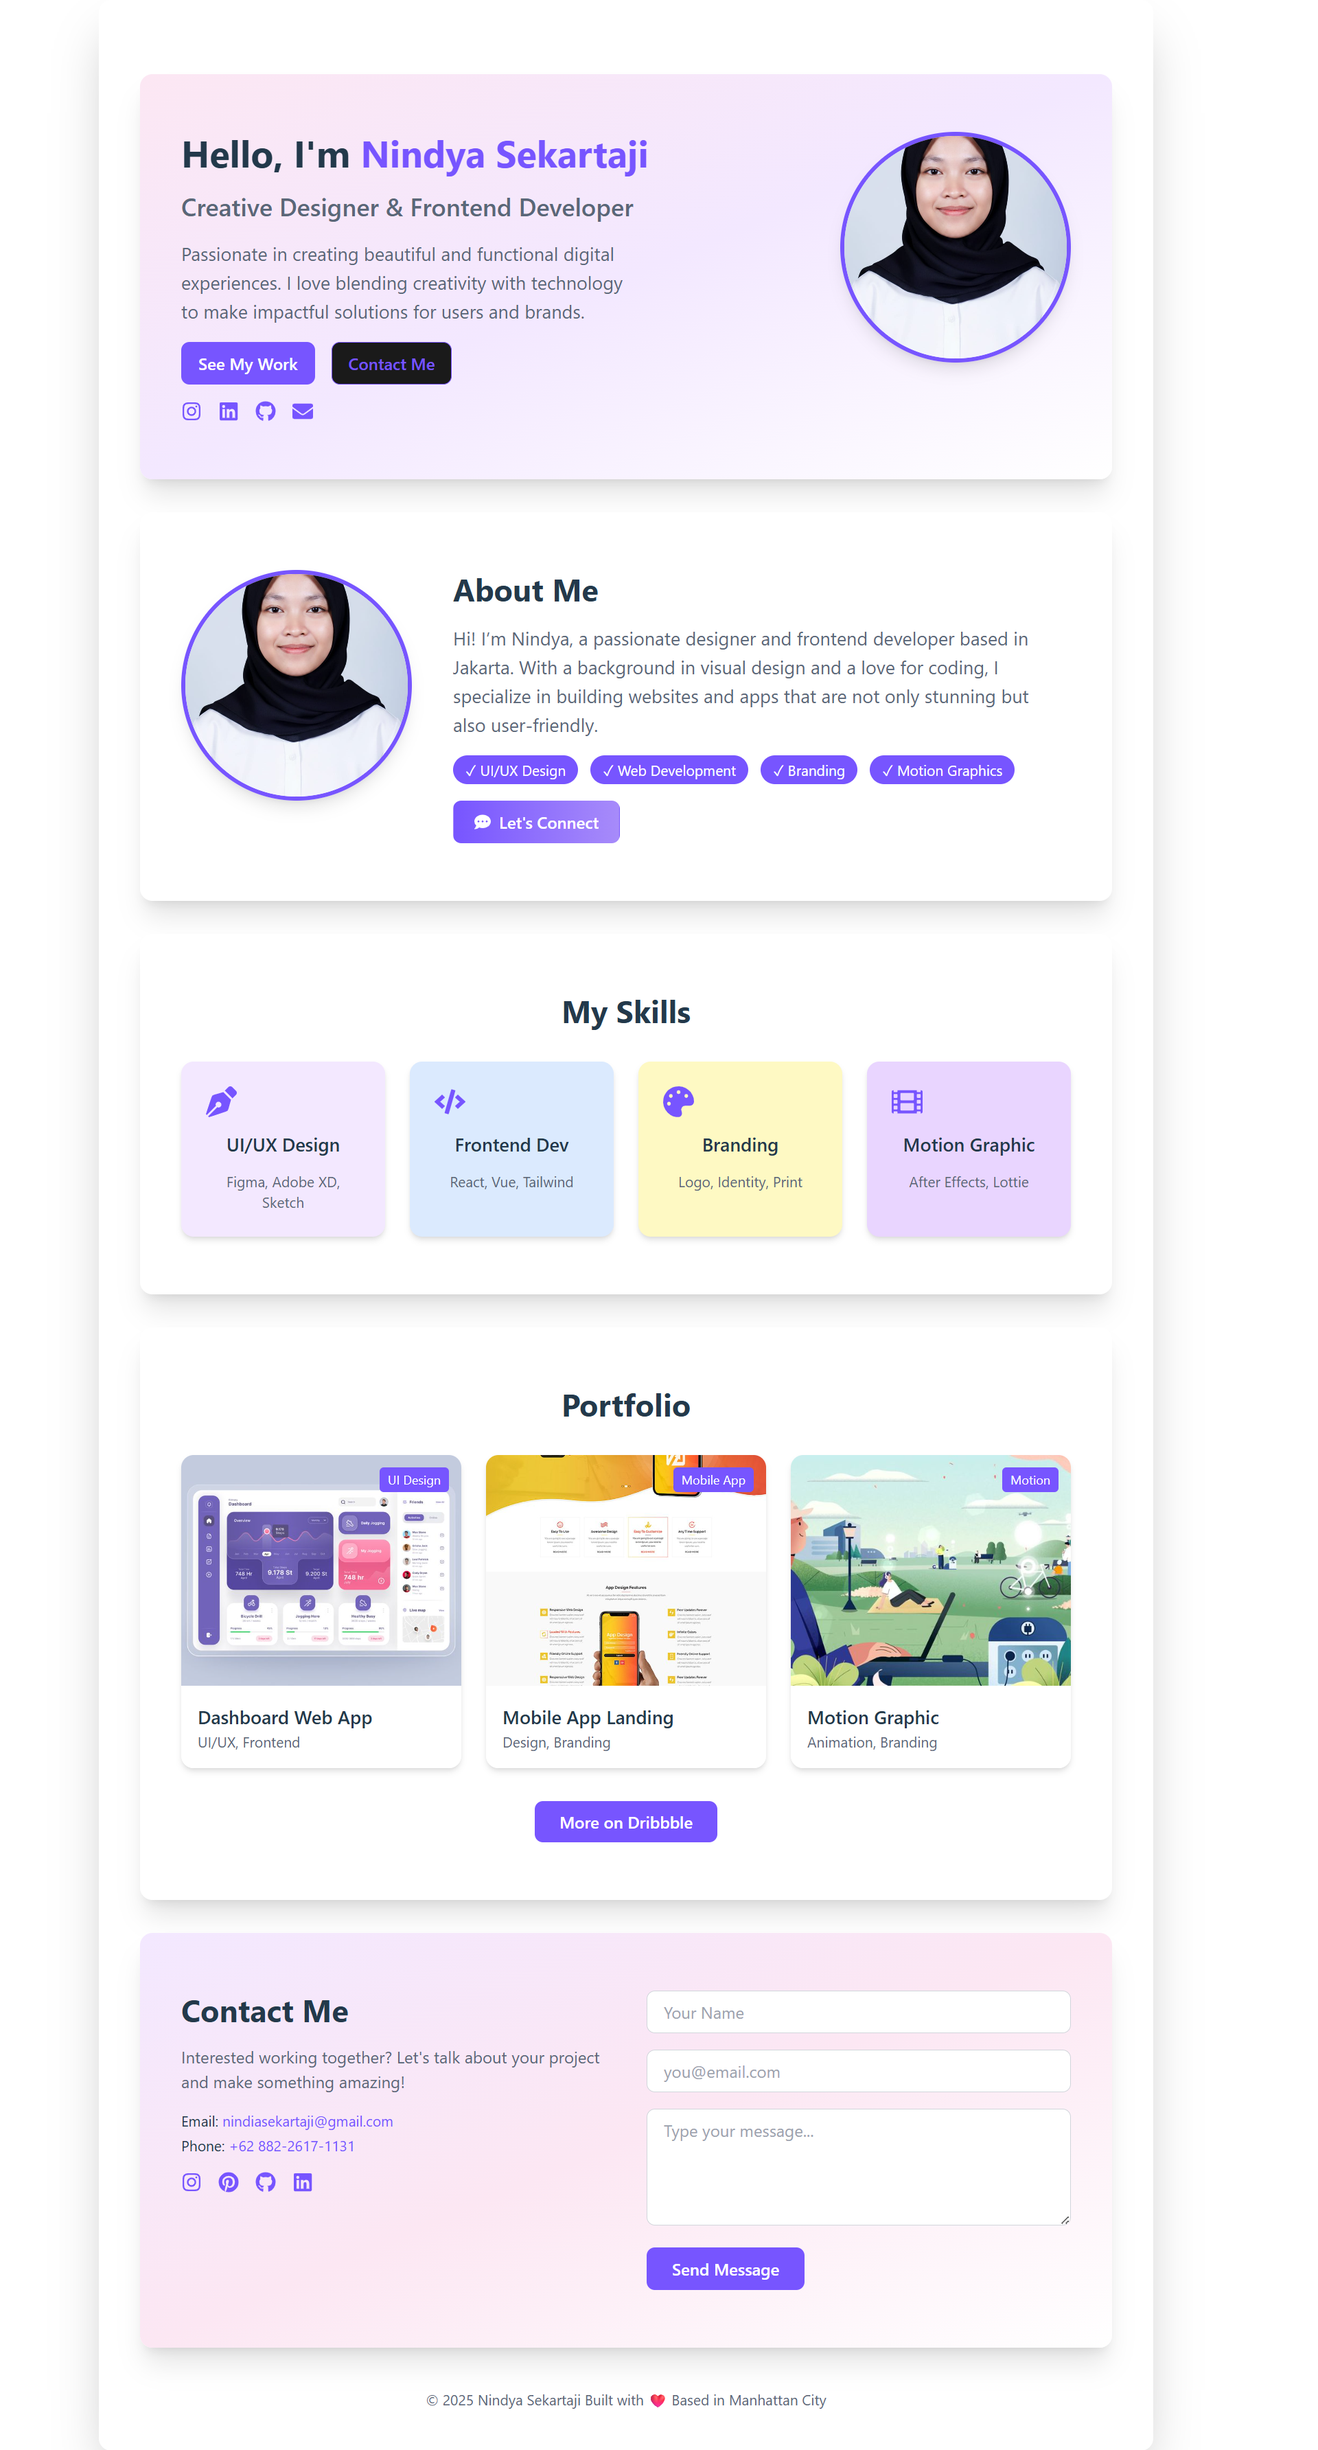
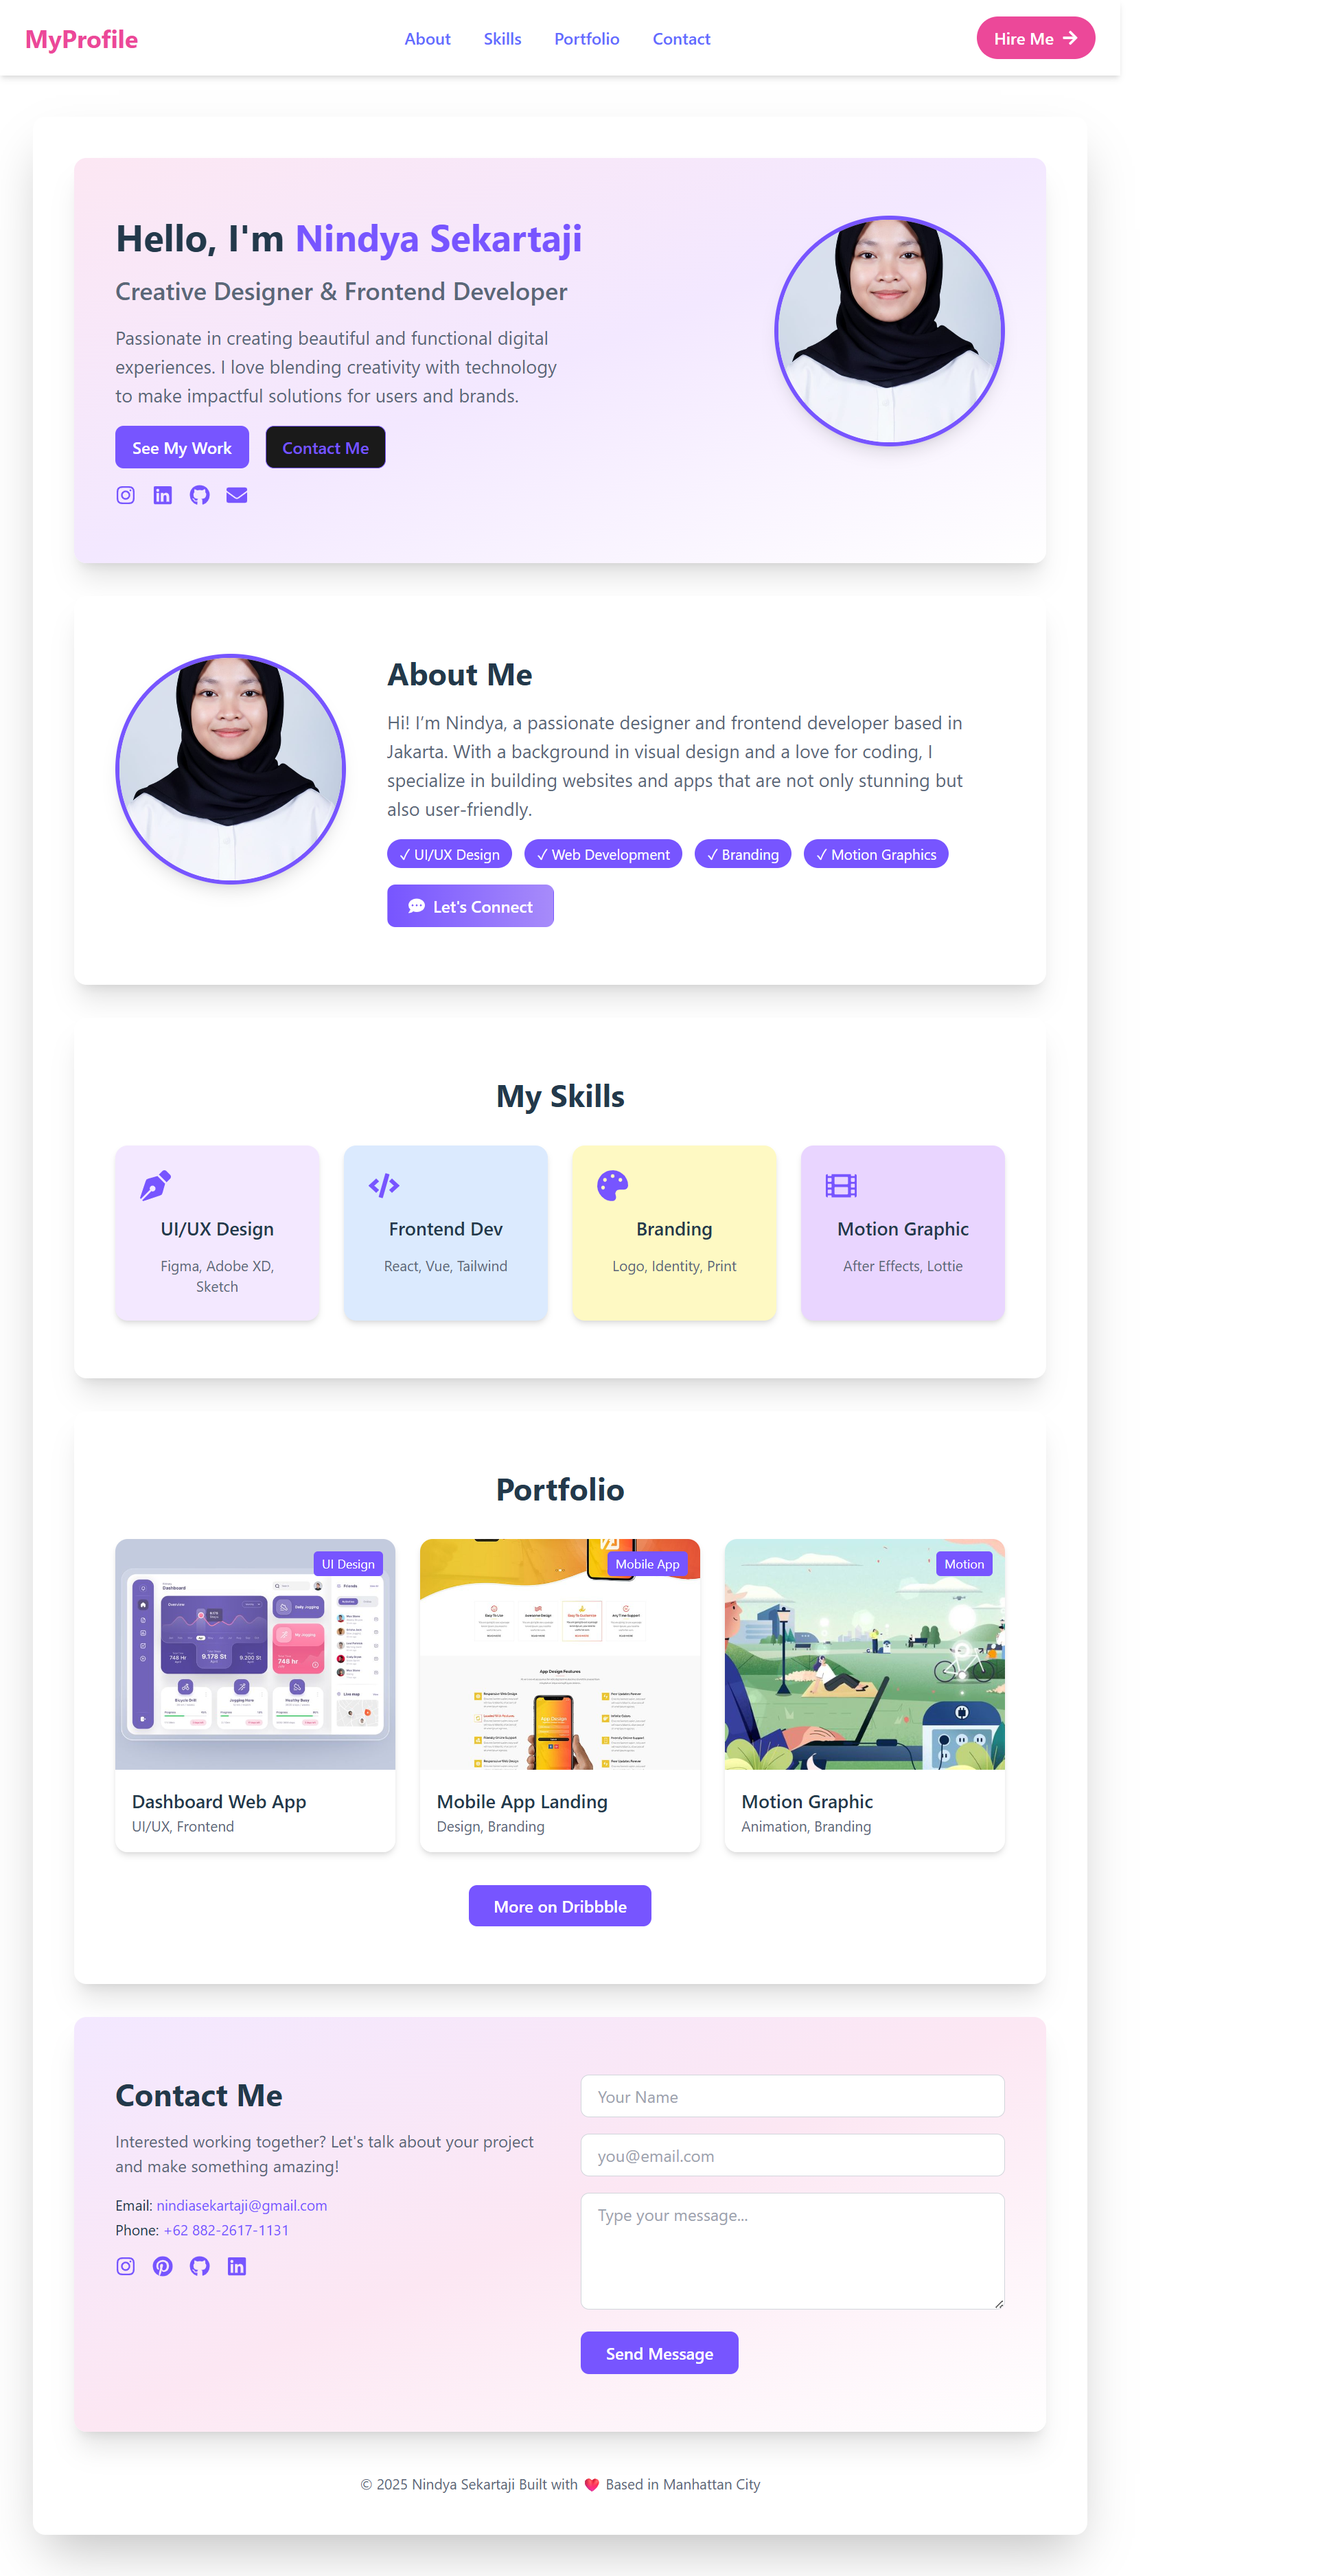
Add Navbar component and preview screenshots to README

diff --git a/src/App.jsx b/src/App.jsx
@@ -1,4 +1,5 @@
 import React from 'react';
+import Navbar from './components/Navbar.jsx';
 import ProfileCard from './components/ProfileCard';
 import AboutSection from './components/AboutSection';
 import SkillsSection from './components/SkillsSection';
@@ -8,19 +9,22 @@ import Footer from './components/Footer';
 
 function App() {
   return (
-    <div className="min-h-screen bg-white flex items-center justify-center px-4 sm:px-6 md:px-8">
-      <div className="px-4 sm:px-6 md:px-8 py-6 sm:py-8 md:py-10"></div>
-      <div className="bg-white rounded-xl shadow-2xl p-6 md:p-10 max-w-5xl mx-auto space-y-10">
-        <main className="space-y-8">
-          <main className="space-y-8 max-w-2xl mx-auto"></main>
+    <div className="min-h-screen bg-white">
+      {/* Navbar tetap di atas */}
+      <Navbar />
 
-        <ProfileCard />
-        <AboutSection />
-        <SkillsSection />
-        <PortfolioSection />
-        <ContactSection />
-        </main>
-        <Footer />
+      {/* Konten utama */}
+      <div className="px-4 sm:px-6 md:px-8 py-6 sm:py-8 md:py-10">
+        <div className="bg-white rounded-xl shadow-2xl p-6 md:p-10 max-w-5xl mx-auto space-y-10">
+          <main className="space-y-8">
+            <ProfileCard />
+            <AboutSection />
+            <SkillsSection />
+            <PortfolioSection />
+            <ContactSection />
+          </main>
+          <Footer />
+        </div>
       </div>
     </div>
   );

diff --git a/src/components/Navbar.jsx b/src/components/Navbar.jsx
@@ -1,0 +1,21 @@
+import React from 'react';
+import { FaArrowRight } from 'react-icons/fa';
+
+const Navbar = () => {
+  return (
+    <header className="bg-white shadow-md px-6 py-4 flex justify-between items-center">
+      <h1 className="text-2xl font-bold text-pink-500">MyProfile</h1>
+      <nav className="hidden md:flex gap-8 text-gray-700 font-medium">
+        <a href="#about" className="hover:text-pink-500">About</a>
+        <a href="#skills" className="hover:text-pink-500">Skills</a>
+        <a href="#portfolio" className="hover:text-pink-500">Portfolio</a>
+        <a href="#contact" className="hover:text-pink-500">Contact</a>
+      </nav>
+      <button className="bg-pink-500 text-white px-4 py-2 rounded-full flex items-center gap-2 hover:bg-pink-600">
+        Hire Me <FaArrowRight />
+      </button>
+    </header>
+  );
+};
+
+export default Navbar;
